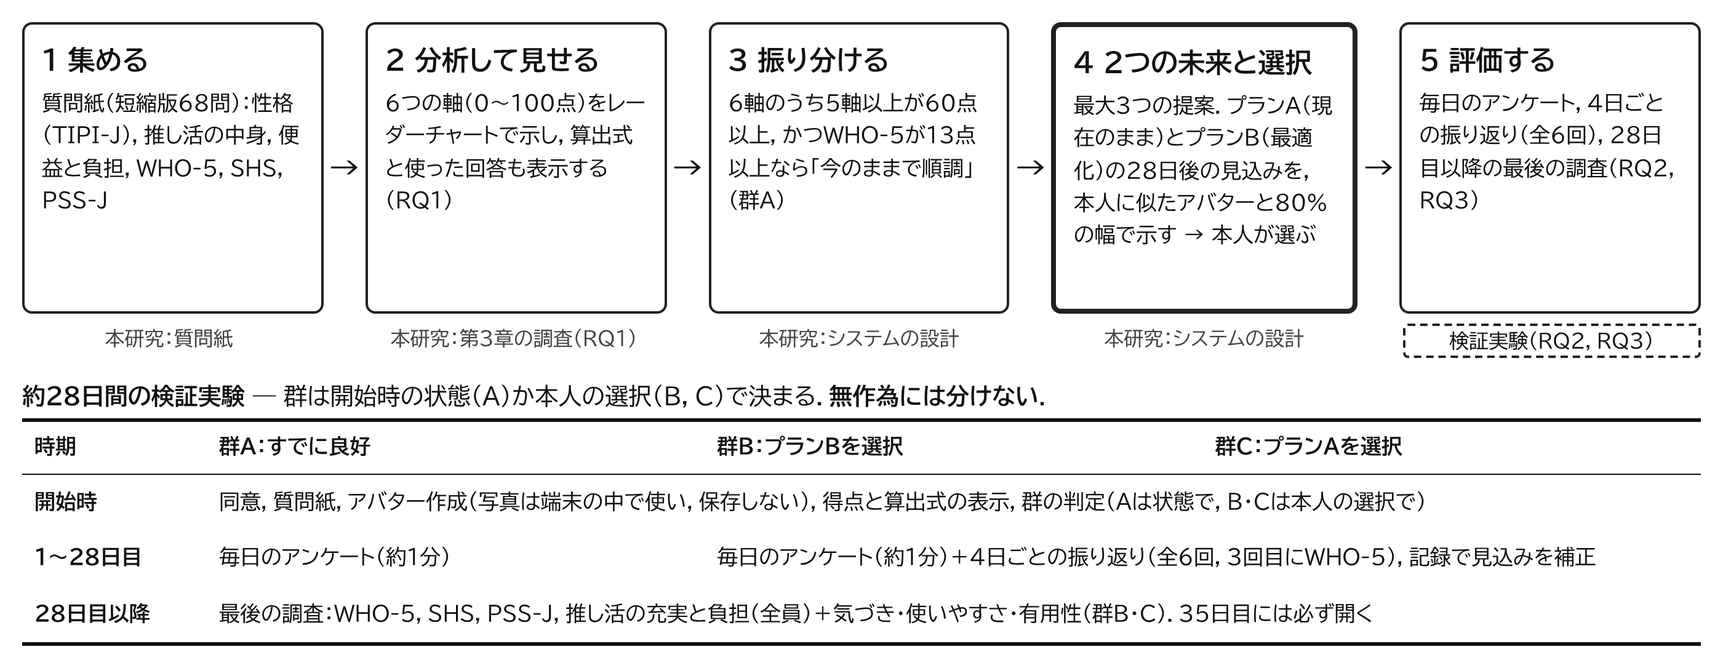
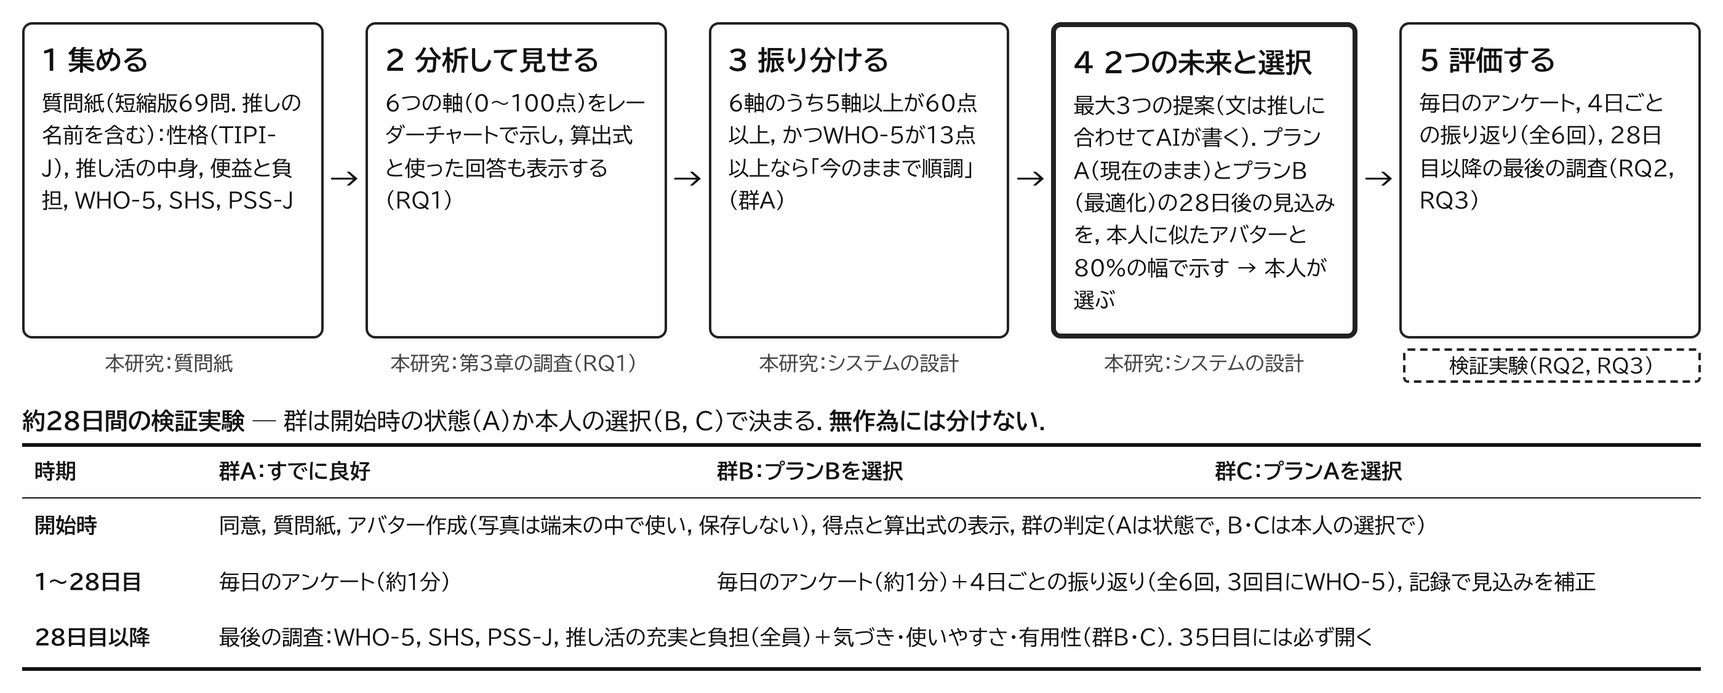
提案文を推しに合わせる：Q4b（推しの名前）を追加し、Gemini（AI Logic 無料枠）で題名とやり方を書く
提案の型は従来の式で決め、文だけを AI が書く。失敗時は固定の文。
表示した文は plansOffered に残し、CSV に出す。論文の第4章・付録・限界・図1.1を更新。

Claude-Session: https://claude.ai/code/session_01EfAf68qAaSyRQmx5B725mW

diff --git a/oshifit-study/public/index.html b/oshifit-study/public/index.html
@@ -406,6 +406,7 @@ tr:last-child td{border-bottom:0}
 
 <script src="config.js"></script>
 <script src="store.js"></script>
+<script src="ai.js"></script>
 <script src="avatar.js"></script>
 <script src="settings.js"></script>
 <script src="plans.js"></script>
@@ -479,6 +480,15 @@ tr:last-child td{border-bottom:0}
       "スポーツ選手",
       "その他"
      ]
+    },
+    {
+     "id": "Q4b",
+     "type": "text",
+     "short": true,
+     "optional": true,
+     "text": "主たる推しの名前・チーム名など（任意）",
+     "ph": "例：阪神タイガース",
+     "note": "提案の文をあなたの推しに合わせるために使います。この回答と各軸の点数を AI（Google の Gemini）に送って文を作ります。あなたの名前やメールアドレスは送りません。"
     },
     {
      "id": "Q5",
@@ -1225,8 +1235,9 @@ function plansFor(sc,A){const b=big5(A);
 /* 予算プランは、本人の金額の区分（Q6）から上限の目安（区分の約8割）を出す */
 const SPEND_CAP={"5,000円未満":3000,"5,000円〜1万円未満":6000,"1万円〜3万円未満":15000,"3万円〜5万円未満":30000,"5万円以上":45000};
 const yen=n=>n.toLocaleString("ja-JP")+"円";
-function planTitle(p){const c=SPEND_CAP[S.answers.Q6];return p.id==="budget"&&c?`推し活の予算を「月${yen(c)}まで」にする`:p.title}
-function planHow(p){const c=SPEND_CAP[S.answers.Q6];return p.id==="budget"&&c?`今は「${S.answers.Q6}」。その約8割の${yen(c)}を月の上限にし、先に予算を決めてから使う。超えそうなら翌月に回す。金額は目安なので、自分で決め直してもよい`:p.how}
+const aiOf=p=>{const o=(S.plans||[]).find(x=>x.id===p.id);return o&&o.ai||null};
+function planTitle(p){const a=aiOf(p);if(a)return a.title;const c=SPEND_CAP[S.answers.Q6];return p.id==="budget"&&c?`推し活の予算を「月${yen(c)}まで」にする`:p.title}
+function planHow(p){const a=aiOf(p);if(a)return a.how;const c=SPEND_CAP[S.answers.Q6];return p.id==="budget"&&c?`今は「${S.answers.Q6}」。その約8割の${yen(c)}を月の上限にし、先に予算を決めてから使う。超えそうなら翌月に回す。金額は目安なので、自分で決め直してもよい`:p.how}
 const DONATE_HTML=`<div class="note"><b>寄付先の例（2026年11月時点・送る前に各団体の受付条件を確認）</b><br>
 本・CD・DVD・ゲーム：チャリボン（買取金額をNPOなどへ寄付、1箱から送料無料）／ブックオフ「キモチと。」（宅配買取の金額を約100団体へ寄付）<br>
 ぬいぐるみ・おもちゃ・文具：国際子供友好協会（途上国の子どもへ手渡し）／ワールドギフト（寄付金が必要、途上国へ）／もったいないジャパン（国内外の福祉団体へ）<br>
@@ -1372,14 +1383,27 @@ const allIt=QN.sections.flatMap(s=>s.items.map(i=>({...i,sec:s})));
 function midVal(it){const s=it.sec;if(it.type==="number")return 21;if(it.type==="choice")return it.opts[Math.min(2,it.opts.length-1)];if(it.type==="text")return null;if(it.id==="Q42")return 2;
   const L=it.scale||s.scale,b=s.base??1;return b+Math.floor(L.length/2)}
 function fillBase(){let n=0;allIt.forEach(it=>{if(S.answers[it.id]==null&&it.type!=="text"){const v=midVal(it);if(v!=null){S.answers[it.id]=v;n++}}});if(n)S.filled=true;S.avatar=S.avatar||defAv();return n}
-function ensureBase(){if(!STUDY)fillBase();S.sc=scores(S.answers);if(!S.plans)S.plans=plansFor(S.sc,S.answers);return S.sc}
+/* 提案文を推しに合わせる（ai.js）。型はそのまま、題名とやり方だけ AI の文にする。群が決まった後は変えない */
+let AI_RUN=null;
+function aiStart(){if(AI_RUN||!window.OFAI||!OFAI.enabled()||S.group||!S.plans||!S.plans.length||S.plans.some(x=>x.ai||x.aiTried))return;
+  const sc=S.sc,A=S.answers,cap=SPEND_CAP[A.Q6];
+  const ctx={genre:A.Q4,oshi:String(A.Q4b||"").trim().slice(0,40),multi:A.Q5b,spend:A.Q6,
+    axes:SC.axes.map(a=>`${a.name} ${r0(sc[a.key])}`).join("、"),
+    plans:S.plans.map(x=>{const p=planById(x.id);return{id:p.id,title:p.id==="budget"&&cap?`推し活の予算を「月${yen(cap)}まで」にする`:p.title,how:p.how,axisName:AXNAME[p.axis]||p.axis,score:r0(sc[p.axis]),cap:p.id==="budget"&&cap?yen(cap):null}})};
+  const ids=ctx.plans.map(p=>p.id).join(),at=now();
+  AI_RUN=OFAI.tailor(ctx,30000).then(r=>{AI_RUN=null;
+    if(S.group||!S.plans||S.plans.map(x=>x.id).join()!==ids)return;   // 待っている間に群が決まった・提案が変わった
+    S.plans=S.plans.map(x=>r&&r.byId[x.id]?{...x,ai:{...r.byId[x.id],model:r.model,v:r.version,at}}:{...x,aiTried:true});
+    if(STUDY&&OFStore.offer)OFStore.offer(S);
+    if(location.hash==="#future"&&!S.group)render()});}
+function ensureBase(){if(!STUDY)fillBase();S.sc=scores(S.answers);if(!S.plans)S.plans=plansFor(S.sc,S.answers);aiStart();return S.sc}
 function ensureGroup(){ensureBase();if(!S.group&&!STUDY){S.group="B";S.plan={id:S.plans[0].id,ids:S.plans.slice(0,2).map(x=>x.id),accepted:true};S.decidedAt=now()-12*DAY}}
 
 /* ---------- 質問を1問ずつ（選ぶと次へ） ---------- */
 function mkItem(it,s){const base={id:it.id,text:it.text,sec:s.title,lead:s.lead};
   if(it.type==="number")return{...base,kind:"number"};
   if(it.type==="choice")return{...base,kind:"list",labels:it.opts,vals:it.opts};
-  if(it.type==="text")return{...base,kind:"text",optional:!!it.optional};
+  if(it.type==="text")return{...base,kind:"text",optional:!!it.optional,short:!!it.short,ph:it.ph,note:it.note};
   const L=it.scale||s.scale,b=s.base??1;return{...base,kind:L.length===7?"circle":"list",labels:L,vals:L.map((_,j)=>b+j)}}
 /* 質問の数を減らす（config.js の OSHIFIT_QSET="short"）。採点・提案・分析に使わない項目を省き、性別（Q2）は新規登録で聞く */
 const OMIT=new Set(["Q2",...((window.OSHIFIT_QSET||"short")==="short"?(QN.short_omit||[]):[])]);
@@ -1514,7 +1538,7 @@ function vSurvey(key,items,store,title,ctx,onDone,stepIdx){clearTimeout(ADV);ADV
      <p class="chosen" aria-live="polite">${has?esc(it.labels[it.vals.indexOf(val)]||`${it.vals.indexOf(val)+1}`):""}</p>`}
   else if(it.kind==="list"){input=`<div class="olist" role="radiogroup" aria-label="${esc(it.text)}">${it.labels.map((l,j)=>`<button class="obtn" role="radio" data-j="${j}" aria-checked="${val===it.vals[j]}"><span class="dot" aria-hidden="true"></span><span>${esc(l)}</span></button>`).join("")}</div>`}
   else if(it.kind==="number"){input=`<input class="field" id="f-num" type="number" inputmode="numeric" min="${it.min??18}" max="${it.max??99}" value="${has?val:""}" placeholder="${it.ph||"例：21"}">${it.unit?`<p class="xs muted">単位：${esc(it.unit)}</p>`:""}`}
-  else input=`<textarea class="field" id="f-text" maxlength="400" placeholder="自由にお書きください">${esc(val||"")}</textarea>`;
+  else input=(it.short?`<input class="field" id="f-text" type="text" maxlength="40" autocomplete="off" placeholder="${esc(it.ph||"")}" value="${esc(val||"")}">`:`<textarea class="field" id="f-text" maxlength="400" placeholder="自由にお書きください">${esc(val||"")}</textarea>`)+(it.note?`<p class="xs muted" style="margin-top:8px">${esc(it.note)}</p>`:"");
   const auto=it.kind==="circle"||it.kind==="list";
   app.innerHTML=header(ctx)+`<main class="stack" style="padding-top:14px">${stepIdx!=null?stepper(stepIdx):""}
    <div class="qprog"><div class="meta"><span>${esc(it.sec)}</span><span class="mono">${st.i+1} / ${n}</span></div><div class="bar"><i style="width:${r0((st.i)/n*100)}%"></i></div><div class="meta"><span>${esc(title)}</span><span>あと約${left}分</span></div>${STUDY&&key==="q"?`<p class="xs muted" id="autosave" style="margin:2px 0 0">回答は自動で保存されています。途中でやめても、ログインすれば続きから答えられます。</p>`:""}</div>
@@ -1761,7 +1785,7 @@ function vLogin(){app.innerHTML=header()+`<main class="stack" style="padding-top
     catch(e){console.error(e);msg(authMsg(e),true);b.disabled=false}};wire()}
 
 function vQ(){if(!SV.q&&STUDY){const i=BASE_ITEMS.findIndex(it=>S.answers[it.id]==null&&!it.optional);SV.q={i:i<0?BASE_ITEMS.length-1:i}} // 途中から再開
-  vSurvey("q",BASE_ITEMS,S.answers,"質問に答える",null,()=>{S.sc=scores(S.answers);S.plans=null;S.baselineDone=true;if(STUDY)OFStore.baseline(S);toast("質問はこれで終わりです");go("avatar")},0)}
+  vSurvey("q",BASE_ITEMS,S.answers,"質問に答える",null,()=>{S.sc=scores(S.answers);S.plans=null;S.baselineDone=true;if(STUDY)OFStore.baseline(S);if(!isGood(S.sc).ok)ensureBase();toast("質問はこれで終わりです");go("avatar")},0)}
 let AVTAB="hair";
 function vAvatar(){const A=window.OFAvatar,gender=S.answers.Q2;
   if(!S.avatar||S.avatar.v!==2)S.avatar=A.defaults(gender);const av=S.avatar;av.gender=gender||null;
@@ -1822,13 +1846,17 @@ function pbar(name,a,b,hw,higher){const d=b-a,good=higher?d>=0:d<=0,col=good?"va
   const row=(lab,v,c,w)=>`<div class="pb"><span>${lab}</span><div class="pt">${w?`<span class="rg" style="left:${clamp(v-w,0,100)}%;width:${clamp(v+w,0,100)-clamp(v-w,0,100)}%;background:${c}"></span>`:""}<span class="pm" style="left:calc(${clamp(v,0,100)}% - 1.5px);background:${c}"></span></div></div>`;
   return`<div><div class="h"><span>${name}</span><span class="vals"><span class="muted">${r0(a)}</span> → <b style="color:${col}">${r0(b)}</b></span></div>${row("プランA",a,"var(--faint)",hw)}${row("プランB",b,col,hw)}</div>`}
 let PSEL=new Set();
+/* AI の文のときは、そのことと、もとの型（根拠はこの型のもの）を示す（D4） */
+function aiNote(p){const a=aiOf(p),base=planById(p.id);
+  if(a)return`<p class="xs muted aimark">あなたの推しに合わせて、AI（Google の Gemini）が書いた文です。もとの提案：「${esc(base.title)}」。下の根拠は、もとの提案のものです。</p>`;
+  if(AI_RUN&&!S.group)return`<p class="xs muted aimark" aria-live="polite">あなたの推しに合わせた文を作っています…</p>`;return""}
 function vFuture(){const sc=ensureBase(),A=S.answers;if(isGood(sc).ok){app.innerHTML=header()+`<main class="stack" style="padding-top:14px"><p class="callout good">群A（今のままで順調）のため、提案はありません。</p><a class="btn" href="#home">ホームへ</a></main>`;wire();return}
   app.className="app pc2";PI=clamp(PI,0,S.plans.length-1);const sel=S.plans[PI],p=planById(sel.id);
   const chosen=S.plans.map(x=>x.id).filter(id=>PSEL.has(id)),ids=chosen.length?chosen:[p.id],pr=predictMulti(sc,ids),lab=chosen.length?`選んだ${chosen.length}つ`:`提案${PI+1}だけ`;
   const extra=(p.id==="donate"?DONATE_HTML:"")+(p.id==="event"?ticketHTML(A):"");
   app.innerHTML=header()+`<main class="stack" style="padding-top:14px">${stepper(3)}<div><p class="eyebrow view-eyebrow">TWO FUTURES</p><h2>28日後の2つの未来</h2><p class="small muted">プランA「現在のままの推し活」と、提案を取り入れたプランB「最適化された推し活」を比べます。<b>試したい提案はいくつ選んでもかまいません。</b></p></div>
    <div class="cols"><div class="col"><div class="segs" role="group" aria-label="提案">${S.plans.map((x,i)=>`<button class="seg" data-pi="${i}" aria-pressed="${i===PI}">${PSEL.has(x.id)?"✓ ":""}提案${i+1}</button>`).join("")}</div>
-   <section class="card plan"><h3 style="font-size:17px">${esc(planTitle(p))}</h3><p class="small">${esc(planHow(p))}</p>${extra}<p class="why">選んだ理由：${esc(sel.why)}</p>${evidenceHTML(p.id)}
+   <section class="card plan"><h3 style="font-size:17px">${esc(planTitle(p))}</h3><p class="small">${esc(planHow(p))}</p>${aiNote(p)}${extra}<p class="why">選んだ理由：${esc(sel.why)}</p>${evidenceHTML(p.id)}
     <label class="pickrow"><input type="checkbox" id="pickThis" ${PSEL.has(p.id)?"checked":""}> この提案を試す</label></section>
    <div class="row" style="justify-content:space-between;flex-wrap:wrap"><span class="small">選んだ提案：<b>${chosen.length}</b>／${S.plans.length}</span><button class="btn sm" id="pickAll">${chosen.length===S.plans.length?"選択をすべて外す":"すべての提案を選ぶ"}</button></div>
    <section class="futures"><div class="fut"><span class="lab">プランA　現在のままの推し活</span>${avatar(S.avatar,faceOf(sc),116)}</div><div class="fut b"><span class="lab">プランB　最適化された推し活（${lab}）</span>${avatar(S.avatar,faceOf(pr.B,sc),116)}</div></section></div><div class="col side">

diff --git a/oshifit-study/public/ai.js b/oshifit-study/public/ai.js
@@ -1,0 +1,105 @@
+// OshiFit の提案文を、本人の推しに合わせて AI（Google の Gemini、Firebase AI Logic の無料枠）で書く。
+// ・提案の「型」（15種類のどれを出すか）は今までどおりアプリの式で決める。AI は、その型の狙いを保ったまま、
+//   推しのジャンル・推しの名前に合わせた具体的な題名とやり方を書くだけ（効果の値・根拠・分析は型のものを使う）
+// ・送るのは 6つの軸の点数・推しのジャンル・推しの名前・推しの数・使うお金の範囲だけ。氏名・メール・自由記述は送らない
+// ・失敗・時間切れ・設定なしのときは null を返し、アプリは承認済みの固定の文を出す
+// ・保存の処理（store.js、Firebase 10）とは別の Firebase アプリとして読み込む（AI Logic は新しい版の SDK にしかないため）
+(function () {
+  "use strict";
+  const V = "13.2.0";
+  const CDN = (m) => `https://www.gstatic.com/firebasejs/${V}/firebase-${m}.js`;
+  const PROMPT_VERSION = "ai-v1";
+  let ready = null;
+
+  const conf = () => window.OSHIFIT_AI || {};
+  // 研究版だけで使う。編集者用・展示用（保存しない版）は外部に何も送らない
+  const enabled = () => window.OSHIFIT_MODE === "study" && !!(window.OSHIFIT_AI_MOCK || (conf().enabled && window.OSHIFIT_FIREBASE && !window.OSHIFIT_EMULATOR));
+
+  async function load(ids) {
+    const [app, ai, ac] = await Promise.all([import(CDN("app")), import(CDN("ai")), conf().appCheckKey ? import(CDN("app-check")) : null]);
+    const a = app.getApps().find((x) => x.name === "oshifit-ai") || app.initializeApp(window.OSHIFIT_FIREBASE, "oshifit-ai");
+    // AI Logic は App Check で守る（他人に無料枠を使われないため）。reCAPTCHA v3 のサイトキーは config.js
+    if (ac) ac.initializeAppCheck(a, { provider: new ac.ReCaptchaV3Provider(conf().appCheckKey), isTokenAutoRefreshEnabled: true });
+    const g = ai.getAI(a, { backend: new ai.GoogleAIBackend() });
+    const S = ai.Schema;
+    const schema = S.object({
+      properties: {
+        items: S.array({
+          items: S.object({ properties: { id: S.enumString({ enum: ids }), title: S.string(), how: S.string() } }),
+        }),
+      },
+    });
+    return ai.getGenerativeModel(g, {
+      model: conf().model || "gemini-4-hydrogen",
+      generationConfig: { responseMimeType: "application/json", responseSchema: schema, temperature: 0.7 },
+    });
+  }
+
+  function prompt(ctx) {
+    const plans = ctx.plans.map((p, i) =>
+      `提案${i + 1}（id: ${p.id}）\n- 改善を狙う軸：${p.axisName}（今 ${p.score}点）\n- 型の題名：${p.title}\n- 型のやり方：${p.how}` +
+      (p.cap ? `\n- 本人の月の推し活費の目安上限：${p.cap}` : "")).join("\n\n");
+    return `あなたは、推し活（ファン活動）を無理なく続けるための提案を書く担当です。
+次の人に向けて、下の${ctx.plans.length}つの提案の型それぞれについて、この人の推しに合わせた具体的な提案を1つずつ書いてください。
+
+【この人】
+- 推しのジャンル：${ctx.genre || "不明"}
+- 推しの名前・チーム名：${ctx.oshi || "（未回答）"}
+- 推しの数：${ctx.multi || "不明"}
+- この1か月の推し活費：${ctx.spend || "不明"}
+- 推し活の状態（0〜100点、高いほど良い）：${ctx.axes}
+
+【提案の型】
+${plans}
+
+【書き方の決まり】
+- 型の狙い（改善を狙う軸）と、型のやり方の中心は変えない。推しの実際の推し活の場面に置き換えて具体的にする。
+  例：プロ野球のチームなら、試合中継・ハイライト・球場・応援グッズなど。アイドルなら、配信・ライブ・SNSの投稿・グッズなど。
+- 推し活をやめさせない。量を減らすより、関わり方を整える小さな変更にする。今日から1人でできることにする。
+- 新しい買い物・課金・遠征をすすめない。転売・フリマでの高額取引・無理な節約・食事や睡眠を削ることをすすめない。
+- 医療・診断の言葉、断定的な効果の約束を使わない。
+- 試合や公演の日程・値段・URL・団体名など、確かめられない事実を書かない。推しの名前が分からないときは、ジャンルに合わせて一般的に書く。
+- やさしい日本語。title は30字以内で「〜する」「〜にする」などで終える。how は120字以内で、いつ・何を・どうするかを書く。
+- id は提案の型の id をそのまま使い、${ctx.plans.length}つの型すべてに1つずつ書く。`;
+  }
+
+  // 返ってきた文を確かめる。だめなものは捨てる（その提案は固定の文になる）
+  const BAD = /https?:|www\.|転売|診断|治療|必ず治|絶対に/;
+  function clean(items, ids) {
+    const out = {};
+    for (const it of items || []) {
+      if (!it || !ids.includes(it.id) || out[it.id]) continue;
+      const t = String(it.title || "").replace(/\s+/g, " ").trim(), h = String(it.how || "").replace(/\s+/g, " ").trim();
+      if (!t || !h || t.length > 40 || h.length > 180 || BAD.test(t + h)) continue;
+      out[it.id] = { title: t, how: h };
+    }
+    return out;
+  }
+
+  // ctx: { plans:[{id,title,how,axisName,score,cap}], genre, oshi, multi, spend, axes }
+  // 戻り値：{ byId:{id:{title,how}}, model, version } または null
+  async function tailor(ctx, timeoutMs) {
+    if (!enabled() || !ctx || !ctx.plans || !ctx.plans.length) return null;
+    const ids = ctx.plans.map((p) => p.id);
+    const run = async () => {
+      let text;
+      if (window.OSHIFIT_AI_MOCK) text = await window.OSHIFIT_AI_MOCK(prompt(ctx), ids);
+      else {
+        const model = await load(ids);
+        const r = await model.generateContent(prompt(ctx));
+        text = r.response.text();
+      }
+      const byId = clean((JSON.parse(text) || {}).items, ids);
+      return Object.keys(byId).length ? { byId, model: window.OSHIFIT_AI_MOCK ? "mock" : conf().model || "gemini-4-hydrogen", version: PROMPT_VERSION } : null;
+    };
+    let timer;
+    try {
+      return await Promise.race([run(), new Promise((_, rej) => { timer = setTimeout(() => rej(new Error("timeout")), timeoutMs || 30000); })]);
+    } catch (e) {
+      console.warn("[OshiFit AI] 固定の文を使います", e && (e.message || e));
+      return null;
+    } finally { clearTimeout(timer); }
+  }
+
+  window.OFAI = { tailor, enabled, PROMPT_VERSION };
+})();

diff --git a/oshifit-study/tests/e2e_study.js b/oshifit-study/tests/e2e_study.js
@@ -30,6 +30,8 @@ async function setup(ctx) {
   await ctx.route("https://fonts.googleapis.com/**", (r) => r.fulfill({ body: "", contentType: "text/css" }));
   await ctx.route("**/config.js", (r) => r.fulfill({ body: TEST_CONFIG, contentType: "text/javascript" }));
   // 端末の時計だけを進める（振り返りの4日ルールの確認用）。サーバーの時刻は進まない
+  // 提案文の AI（ai.js）は外部に送らず、決まった文を返す見本に置き換える。送る文はあとで確かめる
+  await ctx.addInitScript(() => { window.OSHIFIT_AI_MOCK = async (prompt, ids) => { window.__aiPrompt = prompt; await new Promise((r) => setTimeout(r, 300)); return JSON.stringify({ items: ids.map((id) => ({ id, title: "阪神の試合の日の" + id + "をする", how: "甲子園の中継を見る日は、" + id + "のやり方で整える" })).concat([{ id: ids[0], title: "重複", how: "重複" }, { id: "x", title: "https://bad", how: "x" }]) }); }; });
   await ctx.addInitScript(() => { const off = +(localStorage.getItem("__e2e_offset") || 0); const real = Date.now.bind(Date); Date.now = () => real() + off; });
 }
 
@@ -39,6 +41,7 @@ async function answerAll(page, stop) {
     const num = page.locator("#f-num");
     if (await num.count()) { await num.fill("21"); await page.locator("#sv-next").click(); continue; }
     const tx = page.locator("#f-text");
+    if (await tx.count() && (await page.locator(".qid").innerText().catch(() => "")).trim() === "Q4b") { await tx.fill("阪神タイガース"); }
     if (await tx.count()) { await page.locator("#sv-next").click({ timeout: 3000 }).catch(() => {}); continue; }   // 押す前に画面が変わることがある
     if (!(await page.locator(".qid").count())) { await page.waitForTimeout(200); continue; }   // 画面の切り替え中
     const id = (await page.locator(".qid").innerText()).trim();
@@ -117,7 +120,7 @@ async function answerAll(page, stop) {
   assert.notEqual((await page.locator(".qid").innerText()).trim(), q0, "少し待つと次へ進む");
   assert.match(await page.locator("#autosave").innerText(), /自動で保存/);
   step("最初の質問：選んでから約0.8秒は選び直せる（その後に次へ）。「自動で保存されています」と表示");
-  for (let i = 0; i < 10; i++) { await page.locator("[data-j]").nth(1).click(); await page.waitForTimeout(950); }
+  for (let i = 0; i < 10; i++) { if (await page.locator("#f-text").count()) { await page.locator("#f-text").fill("阪神タイガース"); await page.locator("#sv-next").click(); await page.waitForTimeout(300); continue; } await page.locator("[data-j]").nth(1).click(); await page.waitForTimeout(950); }   // Q4b（推しの名前）は入力して次へ
   await page.waitForTimeout(2200);                                 // 途中経過は1.5秒まとめて送る
   d = await read((db) => getDoc(doc(db, "participants", uid)));
   const savedN = Object.keys(d.data().answers).length;
@@ -138,7 +141,7 @@ async function answerAll(page, stop) {
   await answerAll(page, async () => (await page.locator("#av-go").count()) > 0);
   for (let i = 0; i < 25; i++) { d = await read((db) => getDoc(doc(db, "participants", uid))); if (d.data().baselineDone) break; await page.waitForTimeout(200); }
   assert.equal(d.data().baselineDone, true);
-  const keys = Object.keys(d.data().answers).filter((k) => k !== "Q62");
+  const keys = Object.keys(d.data().answers).filter((k) => k !== "Q62" && k !== "Q4b");
   assert.equal(keys.length, 68, "短縮版：67項目＋性別が保存される");
   assert.ok(!keys.includes("Q35") && !keys.includes("Q55"), "省いた項目は聞かない");
   assert.ok(d.data().scores && d.data().scores.pss != null && d.data().scores.wb != null);
@@ -167,6 +170,11 @@ async function answerAll(page, stop) {
       assert.equal(await page.locator("#combos .chip.good").count(), 1, "おすすめの組み合わせは1つ");
       await page.screenshot({ path: path.join(OUT, "03_combos.png"), fullPage: true });
     }
+    await page.waitForFunction(() => document.querySelector(".aimark") && /AI/.test(document.querySelector(".aimark").textContent), null, { timeout: 8000 });
+    assert.match(await page.locator(".card.plan h3").innerText(), /^阪神の試合の日の/, "提案の題名が推しに合わせた文になる");
+    const pr = await page.evaluate(() => window.__aiPrompt);
+    assert.ok(pr.includes("阪神タイガース") && pr.includes("推しのジャンル"), "推しの名前とジャンルを送る");
+    assert.ok(!pr.includes("@") && !pr.includes("Q62"), "メールアドレスや自由記述は送らない");
     await page.locator("#pickThis").check();
     await page.locator("#pickB").click();
     group = "B";
@@ -179,7 +187,9 @@ async function answerAll(page, stop) {
   assert.equal(p.avatar.hair, "spiky"); assert.equal(p.avatar.hairColor, 30); assert.equal(p.avatar.shirt, 5); assert.equal(p.avatar.beard, 1); assert.equal(p.avatarDone, true);
   assert.equal(JSON.stringify(p.avatar).includes("data:"), false, "写真は保存しない");
   assert.ok(p.decidedAt && p.decidedAt.toMillis(), "決めた時刻（サーバー）");
-  if (group === "B") { assert.ok(p.planIds.length >= 1); assert.ok(p.pred && p.pred.B && p.pred.hw); assert.ok(p.plansOffered.length >= 1); }
+  if (group === "B") { assert.ok(p.planIds.length >= 1); assert.ok(p.pred && p.pred.B && p.pred.hw); assert.ok(p.plansOffered.length >= 1);
+    assert.ok(p.plansOffered.every((x) => x.ai && x.ai.title.startsWith("阪神の試合の日の") && x.ai.model === "mock"), "推しに合わせた文と型を、提示した提案として残す");
+    assert.equal(p.answers.Q4b, "阪神タイガース"); }
   step(`群${group}に決まり、群・提案・見込み・時刻が保存される`);
   { const pd = await read((db) => getDoc(doc(db, "participants", uid))); assert.equal(pd.data().cfgVersion, 3, "使った設定の版が残る"); assert.equal(pd.data().cfgUsed.groupA.axisMin, 60, "型の違う値は初期値"); }
   step("群を決めたときの実験の条件（study/protocol の版と値）が、参加者の記録に残る");

diff --git a/oshifit-study/public/admin.html b/oshifit-study/public/admin.html
@@ -38,7 +38,7 @@ const ST = window.OSHIFIT_SETTINGS;
 let CFG = ST.apply({}).cfg, MG = { proto: null, ops: null, history: [], events: [], cfgRejected: [], plans: ST.mergePlans(window.OSHIFIT_PLANS, []).plans, planDocs: new Set(), planRejected: [], notices: [], notes: {} };
 const SC = ["wb", "joy", "sleep", "money", "duty", "compare", "burnout", "who5raw", "shs", "pss"];
 const items = (ids) => QN.sections.filter((s) => ids.includes(s.id)).flatMap((s) => s.items.map((i) => i.id));
-const BASE_ITEMS = QN.sections.flatMap((s) => s.items.map((i) => i.id)).filter((id) => id !== "Q62");
+const BASE_ITEMS = QN.sections.flatMap((s) => s.items.map((i) => i.id)).filter((id) => id !== "Q62" && id !== "Q4b"); // 自由記述は free.csv
 const FINAL_ITEMS = [...items(["who5", "shs", "pss"]), "Q29", "Q30", "Q31", "Q32", "Q33", "Q34", "Q39", "Q44", "Q45", "Q46", "Q47", "Q48", "Q49", "Q50", "Q51", "J1", "J2", "K1", "K2", "K3", "K4", "K5"];
 
 const ERR = { "auth/operation-not-allowed": "このログイン方法が Firebase で有効になっていません（Authentication →「ログイン方法」で有効にしてください）", "auth/popup-blocked": "ポップアップが止められました。このサイトのポップアップを許可してください", "auth/popup-closed-by-user": "ログインの画面が閉じられました", "auth/unauthorized-domain": "このドメインが Firebase の「承認済みドメイン」にありません", "auth/account-exists-with-different-credential": "このメールアドレスは別のログイン方法で登録済みです", "auth/invalid-action-code": "ログイン用のリンクが古いか、使用済みです。もう一度送ってください" };
@@ -339,7 +339,7 @@ export function tables(P) {
   const baseCols = ["pid", "uid", "pilot", "exclude", "note", "cfg_version", "qset", "withdrawn", "withdrawn_at", "created_at", "decided_at", "group", "plans_offered", "plans_chosen", "avatar_source", ...BASE_ITEMS, ...SC,
     ...["wb", "joy", "sleep", "money", "duty", "compare", "burnout", "pss"].map((k) => "pred_B_" + k), "pred_hw", "pred_hwWb"];
   const baseline = P.filter((p) => p.baselineDone).map((p) => {
-    const r = { pid: p.pid, uid: p.uid, pilot: p.pilot, exclude: p.note?.exclude ? 1 : 0, note: p.note?.text || "", cfg_version: p.cfgVersion ?? "", qset: p.qset || "", withdrawn: p.withdrawn ? 1 : 0, withdrawn_at: iso(p.withdrawnAt), created_at: iso(p.createdAt), decided_at: iso(p.decidedAt), group: p.group || "", plans_offered: (p.plansOffered || []).map((x) => x.id).join(";"), plans_chosen: (p.planIds || []).join(";"), avatar_source: p.avatar?.source || "" };
+    const r = { pid: p.pid, uid: p.uid, pilot: p.pilot, exclude: p.note?.exclude ? 1 : 0, note: p.note?.text || "", cfg_version: p.cfgVersion ?? "", qset: p.qset || "", withdrawn: p.withdrawn ? 1 : 0, withdrawn_at: iso(p.withdrawnAt), created_at: iso(p.createdAt), decided_at: iso(p.decidedAt), group: p.group || "", plans_offered: (p.plansOffered || []).map((x) => x.id).join(";"), plans_ai: (p.plansOffered || []).map((x) => (x.ai ? 1 : 0)).join(";"), ai_model: ((p.plansOffered || []).find((x) => x.ai) || {}).ai?.model || "", plans_chosen: (p.planIds || []).join(";"), avatar_source: p.avatar?.source || "" };
     BASE_ITEMS.forEach((id) => (r[id] = p.answers?.[id])); SC.forEach((k) => (r[k] = p.scores?.[k]));
     if (p.pred) { Object.keys(p.pred.B || {}).forEach((k) => (r["pred_B_" + k] = p.pred.B[k])); r.pred_hw = p.pred.hw; r.pred_hwWb = p.pred.hwWb; }
     return r;
@@ -355,7 +355,7 @@ export function tables(P) {
   });
   const dCols = ["pid", "group", "date", "day", "at", "mood", "yen", "minutes", "joy", "Q44", "Q45", "Q47", "Q48", ...PLANS.map((x) => "did_" + x)];
   const daily = P.flatMap((p) => (p.daily || []).map((c) => ({ ...c, pid: p.pid, group: p.group, at: iso(c.at) })));
-  const free = P.flatMap((p) => [p.answers?.Q62 ? { pid: p.pid, where: "baseline_Q62", text: p.answers.Q62 } : null, p.final?.answers?.how ? { pid: p.pid, where: "final_how", text: p.final.answers.how } : null].filter(Boolean));
+  const free = P.flatMap((p) => [p.answers?.Q4b ? { pid: p.pid, where: "baseline_Q4b", text: p.answers.Q4b } : null, ...(p.plansOffered || []).filter((x) => x.ai).map((x) => ({ pid: p.pid, where: "ai_plan_" + x.id, text: x.ai.title + "／" + x.ai.how })), p.answers?.Q62 ? { pid: p.pid, where: "baseline_Q62", text: p.answers.Q62 } : null, p.final?.answers?.how ? { pid: p.pid, where: "final_how", text: p.final.answers.how } : null].filter(Boolean));
   return { daily: [daily, dCols], baseline: [baseline, baseCols], weekly: [weekly, wkCols], trial: [trial, trCols], free: [free, ["pid", "where", "text"]] };
 }
 function download(name, P) {

diff --git a/oshifit-study/public/store.js b/oshifit-study/public/store.js
@@ -81,6 +81,8 @@
   // 質問の途中経過（数秒まとめて送る）。開始時の質問が終わるまでだけ
   function draft(S) { clearTimeout(debounceT); debounceT = setTimeout(() => upd({ answers: { ...S.answers }, draftAt: fb.fs.serverTimestamp() }), 1500); }
   function baseline(S) { clearTimeout(debounceT); return upd({ answers: { ...S.answers }, scores: S.sc, baselineDone: true, baselineAt: fb.fs.serverTimestamp() }); }
+  // 推しに合わせた提案文（ai.js）ができたら、群を決める前に提示した提案として残す（ルールで一度だけ）
+  function offer(S) { if (S.group || !S.plans) return Promise.resolve(); return upd({ plansOffered: S.plans }); }
   function avatar(S) { return upd({ avatar: { ...S.avatar }, avatarDone: true }); }
   // 群を決める（一度だけ。ルールで変更を禁止）。decidedAt はサーバーの時刻
   // cfg：そのとき使った実験の条件（Firestore の study/protocol の版と値）を記録に残す。研究の途中で設定を変えても、誰がどの条件だったか分かる
@@ -105,5 +107,5 @@
     const [c, p, n] = await Promise.all([fs.getDoc(fs.doc(db, "study", "protocol")), fs.getDocs(fs.collection(db, "plans")), fs.getDocs(fs.collection(db, "notices"))]);
     return { protocol: c.exists() ? c.data() : null, plans: p.docs.map((d) => ({ ...d.data(), id: d.id })), notices: n.docs.map((d) => ({ ...d.data(), id: d.id })) };
   }
-  window.OFStore = { settings, init, signup, login, social, logout, resetPassword, begin, draft, baseline, avatar, decide, checkin, final, daily, get failed() { return failed; }, get uid() { return uid; }, get email() { return email; } };
+  window.OFStore = { settings, init, signup, login, social, logout, resetPassword, begin, draft, baseline, offer, avatar, decide, checkin, final, daily, get failed() { return failed; }, get uid() { return uid; }, get email() { return email; } };
 })();

diff --git a/oshifit-study/public/config.js b/oshifit-study/public/config.js
@@ -19,5 +19,10 @@ window.OSHIFIT_FIREBASE = {
 // Microsoft でのログインに使う Azure のテナント（大阪工業大学）。Azure のアプリが「この組織ディレクトリのみ」のときに必要。
 // 学外の人の Microsoft アカウントも使えるようにするなら、Azure のアプリを「任意の組織ディレクトリと個人の Microsoft アカウント」にして、ここを null にする
 window.OSHIFIT_MS_TENANT = "636389c0-b95c-4828-b98f-f9fcb8d9383a";
+// 提案文を推しに合わせる AI（ai.js）。Firebase AI Logic の Gemini Developer API（無料枠・Spark プランのまま）
+//   設定：Firebase コンソール →「AI Logic」→「使ってみる」→「Gemini Developer API」を選ぶ
+//   appCheckKey：reCAPTCHA v3 のサイトキー（公開してよい値）。App Check に登録すると、このサイト以外から無料枠を使われない
+//   使えないとき（設定前・上限・時間切れ）は、承認済みの固定の文を出す。enabled:false で AI を使わない
+window.OSHIFIT_AI = { enabled: true, model: "gemini-4-hydrogen", appCheckKey: "" };
 // テスト用：エミュレーターにつなぐ（本番では null のまま）
 window.OSHIFIT_EMULATOR = null; // 例 { auth: "http://127.0.0.1:9099", firestore: ["127.0.0.1", 8080] }

diff --git a/oshifit-study/tests/questionnaire_sync.test.js b/oshifit-study/tests/questionnaire_sync.test.js
@@ -6,9 +6,9 @@ test("index.html の OSHIFIT_Q と questionnaire.json が一致する", () => {
   const file = JSON.parse(fs.readFileSync(path.join(__dirname, "..", "public", "questionnaire.json"), "utf8"));
   assert.deepEqual(emb, file);
   const n = file.sections.filter((s) => s.id !== "free").reduce((a, s) => a + s.items.length, 0);
-  assert.equal(n, 85, "全項目は85（67＋SHS 4＋PSS-J 14）。短縮版で省くのは short_omit");
+  assert.equal(n, 86, "全項目は86（67＋SHS 4＋PSS-J 14＋推しの名前 Q4b）。短縮版で省くのは short_omit");
   const omit = new Set(file.short_omit);
   const used = JSON.stringify(file.scoring);
   for (const id of omit) assert.ok(!used.includes(`"${id}"`), id + " は採点に使っていない");
-  assert.equal(n - omit.size - 1, 67, "短縮版で答えるのは67項目（性別は登録画面）");
+  assert.equal(n - omit.size - 1, 68, "短縮版で答えるのは68項目（必須67＋任意の推しの名前。性別は登録画面）");
 });

diff --git a/oshifit-thesis/overleaf/appendix.tex b/oshifit-thesis/overleaf/appendix.tex
@@ -1,6 +1,6 @@
 \chapter{質問紙の全項目}
 \label{app:questionnaire}
-OshiFitで用いる質問紙（全86項目）を示す．Q42は注意確認項目である．検証実験で用いる短縮版では，性別（Q2）を登録の画面で尋ね，Q35〜Q38，Q40，Q41，Q43，Q52〜Q54，Q55〜Q61の17項目を省く（\ref{sec:short}項）．
+OshiFitで用いる質問紙（全87項目）を示す．Q42は注意確認項目である．検証実験で用いる短縮版では，性別（Q2）を登録の画面で尋ね，Q35〜Q38，Q40，Q41，Q43，Q52〜Q54，Q55〜Q61の17項目を省く（\ref{sec:short}項）．
 
 \section*{あなたご自身と推し活について}
 \noindent 以下の質問には「主たる推し」（いま最も時間を使っている推しを1人・1組）について答えてください。\\
@@ -10,6 +10,7 @@ Q1 & 年齢 \\
 Q2 & 性別\newline {\footnotesize（男性，女性，その他，回答しない）} \\
 Q3 & 職業\newline {\footnotesize（学生，会社員・公務員，自営業・フリーランス，パート・アルバイト，主婦・主夫，その他）} \\
 Q4 & 主たる推しのジャンル\newline {\footnotesize（実在のアイドル，アニメ・漫画・ゲームのキャラクター，VTuber・配信者，俳優・舞台役者，声優，バンド・アーティスト，スポーツ選手，その他）} \\
+Q4b & 主たる推しの名前・チーム名など（任意）\newline {\footnotesize（記述．例：阪神タイガース．提案の文を推しに合わせるために，各軸の得点とともにAI（GoogleのGemini）に送る．氏名やメールアドレスは送らない）} \\
 Q5 & その推しを応援し始めてからの期間\newline {\footnotesize（半年未満，半年〜1年未満，1年〜3年未満，3年〜5年未満，5年以上）} \\
 Q5b & いま応援している推しの数（主たる推しを含む）\newline {\footnotesize（1人・1組，2人・2組，3人・3組以上）} \\
 Q6 & 推し活に使う1か月あたりの金額（目安）\newline {\footnotesize（5,000円未満，5,000円〜1万円未満，1万円〜3万円未満，3万円〜5万円未満，5万円以上，答えたくない）} \\

diff --git a/oshifit-thesis/overleaf/chap5_experiment.tex b/oshifit-thesis/overleaf/chap5_experiment.tex
@@ -33,7 +33,7 @@
 
 \section{手続き}
 \begin{enumerate}
-\item \textbf{登録と開始時（約15分）}：参加者は説明を読んで同意し，登録する．質問紙（短縮版68問）に回答し，アバターを作成する．OshiFitは6軸の得点とその算出根拠を表示し，群を判定する．
+\item \textbf{登録と開始時（約15分）}：参加者は説明を読んで同意し，登録する．質問紙（短縮版69問）に回答し，アバターを作成する．OshiFitは6軸の得点とその算出根拠を表示し，群を判定する．
 \item \textbf{選択}：群Aに当てはまらない参加者は，最大3つの提案とプランA・Bの見込みを見て，提案を選んでプランBで始めるか，プランAで続けるかを決める．選んだ群は変更できない．
 \item \textbf{約28日間}：全員が毎日のアンケート（約1分）に答える．群Bと群Cの参加者は，4日ごとに全6回の振り返り（約1分）に答える．
 \item \textbf{最後の調査（28日目以降）}：全員が，開始時と同じ尺度（WHO-5，SHS，PSS-J，推し活の充実と負担の項目）からなる最後の調査に答える．群Bと群Cの参加者は，気づき，使いやすさ，有用性に関する項目にも答える．振り返りが6回そろっていなくても，35日目には最後の調査を開く．

diff --git a/oshifit-study/analysis/step0_load.py b/oshifit-study/analysis/step0_load.py
@@ -63,7 +63,7 @@ def run(ctx: Ctx):
     trial = read_csv(d / "trial.csv") if (d / "trial.csv").exists() else pd.DataFrame(columns=["pid"])
     free_n = len(read_csv(d / "free.csv")) if (d / "free.csv").exists() else 0
 
-    num_items = [c for c in S.all_items if c not in ("Q2", "Q3", "Q4", "Q5", "Q5b", "Q6", "Q62")]
+    num_items = [c for c in S.all_items if c not in ("Q2", "Q3", "Q4", "Q4b", "Q5", "Q5b", "Q6", "Q62")]
     base = to_num(base, num_items + ["pilot"] + SCORE_KEYS + [c for c in base.columns if c.startswith("pred_")])
     trial = to_num(trial, [c for c in trial.columns if c not in ("pid", "group", "final_at")])
     weekly = to_num(weekly, [c for c in weekly.columns if c not in ("pid", "group", "at")])
